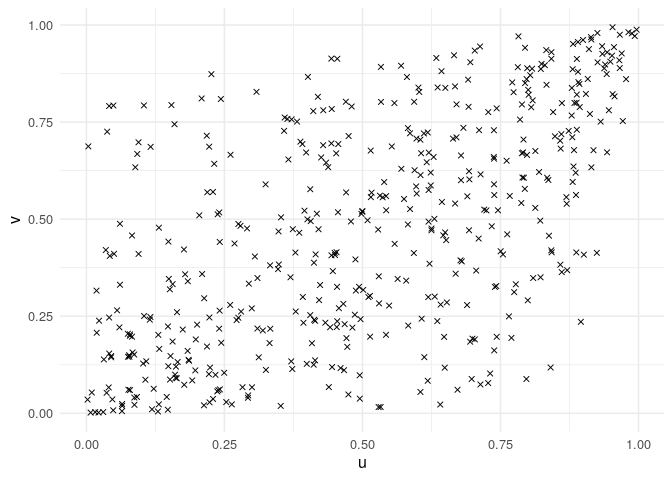
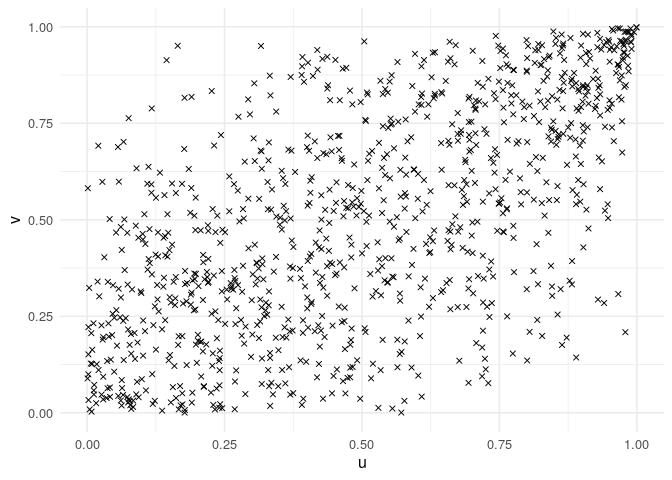
updating readme with example usecases

diff --git a/README.md b/README.md
@@ -6,7 +6,8 @@
 <!-- badges: start -->
 <!-- badges: end -->
 
-`hrd` is a collection of functions to help implement and develop and fit Hüsler-Reiss models.
+`hrd` is a collection of functions to help implement and develop and fit
+Hüsler-Reiss models.
 
 ## Installation
 
@@ -19,39 +20,103 @@ devtools::install_github("dairer/hrd")
 
 ## Example
 
-This is a basic example which shows you how to solve a common problem:
+### Sampling bivariate Hüsler-Reiss copula
 
 ``` r
-## sample data from a bivariate Hüsler-Reiss copula
 library(hrd)
-rhr(n=10, lambda = 1)
-#>                u         v
-#>  [1,] 0.47175837 0.2948507
-#>  [2,] 0.51771378 0.5014396
-#>  [3,] 0.71541700 0.4621651
-#>  [4,] 0.72278432 0.5397291
-#>  [5,] 0.11767617 0.3935401
-#>  [6,] 0.77555017 0.8174187
-#>  [7,] 0.57016371 0.7556169
-#>  [8,] 0.06499856 0.3435320
-#>  [9,] 0.24603109 0.7828829
-#> [10,] 0.08167499 0.2832719
+library(ggplot2)
+
+# sample data from a bivariate Hüsler-Reiss copula
+data = rhr(n=1000, lambda = 1.5)
+
+# visualise samples
+data %>%
+  as.data.frame() %>%
+  ggplot()+
+  geom_point(aes(u,v), shape = 4)+
+  theme_minimal(12)
 ```
 
-What is special about using `README.Rmd` instead of just `README.md`?
-You can include R chunks like so:
+![](README_files/figure-gfm/example1-1.png)<!-- -->
+
+### Esimating the dependence parameter of a Hüsler-Reiss copula
 
 ``` r
-# summary(cars)
+fit_hrc(u = data[,1], v = data[,2], initial_est = 1)
 ```
 
-You’ll still need to render `README.Rmd` regularly, to keep `README.md`
-up-to-date. `devtools::build_readme()` is handy for this. You could also
-use GitHub Actions to re-render `README.Rmd` every time you push. An
-example workflow can be found here:
-<https://github.com/r-lib/actions/tree/v1/examples>.
+    ## $estimate
+    ## [1] 1.520557
+    ## 
+    ## $ci
+    ## [1] 1.426394 1.614720
 
-You can also embed plots, for example:
+### Esimating generalised pareto marings and dependence parameter of a Hüsler-Reiss copula jointly
 
-In that case, don’t forget to commit and push the resulting figure
-files, so they display on GitHub and CRAN.
+``` r
+# transform margins to be GP distributed
+x = qgp(data[,1], scale = 2, shape = -0.1)
+y = qgp(data[,2], scale = 1.3, shape = -0.1)
+
+# visualise the multivariate distribution
+data.frame(x,y) %>%
+  ggplot()+
+  geom_point(aes(x,y), shape = 4)+
+  theme_minimal()
+```
+
+![](README_files/figure-gfm/example3-1.png)<!-- -->
+
+``` r
+model_fit = fit_hrc_gp(x,y,initial_est = c(1,0,1,0,1))
+
+# visualise estimates
+data.frame(actual = c(2, -0.1, 1.3, -0.1, 1.5),
+       estimates = model_fit$estimate,
+       lower = model_fit$ci[,1],
+       upper = model_fit$ci[,2],
+       params = c('σ1', 'ξ1', 'σ2', 'ξ2', 'λ')) %>%
+  ggplot()+
+  geom_point(aes(params, estimates))+
+  geom_point(aes(params, actual),position = position_nudge(x = -0.075), shape = 4, col = 'red')+
+  geom_segment(aes(x = params, xend = params, y = lower, yend = upper))+
+  labs(x = "Parameters",
+       y = "Parameter estimates")+
+  theme_minimal(12)
+```
+
+![](README_files/figure-gfm/example3-2.png)<!-- -->
+
+In each case the red ‘x’ is the true value. The black point along with
+the segment are the point estimates and 95% confidence intervals. λ is
+the dependence parameter of the Hüsler-Reiss copula. σ1 and ξ1 are the
+scale and shape parameters of GPD margin 1. Equivalent for margin 2.
+
+### We can compare estimates from margin-dependence indpendent analysis (in magenta) to joint modelling (in black).
+
+``` r
+dependence_mod = fit_hrc(data[,1], data[,2], initial_est = 1)
+
+marg1_mod = fit_gpd(x, initial_est = c(1,0))
+marg2_mod = fit_gpd(y, initial_est = c(1,0))
+
+data.frame(actual = c(2, -0.1, 1.3, -0.1, 1.5),
+       estimates_joint = model_fit$estimate,
+       lower_joint = model_fit$ci[,1],
+       upper_joint = model_fit$ci[,2],
+       estimates_indep = c(marg1_mod$estimate, marg2_mod$estimate, dependence_mod$estimate),
+       lower_indep = c(marg1_mod$ci[,1],marg2_mod$ci[,1],dependence_mod$ci[1]),
+       upper_indep = c(marg1_mod$ci[,2],marg2_mod$ci[,2],dependence_mod$ci[2]),
+       params = c('σ1', 'ξ1', 'σ2', 'ξ2', 'λ')) %>%
+  ggplot()+
+  geom_point(aes(params, actual),position = position_nudge(x = -0.075), shape = 4, col = 'red')+
+  geom_point(aes(params, estimates_joint))+
+  geom_segment(aes(x = params, xend = params, y = lower_joint, yend = upper_joint))+
+  geom_point(aes(params, estimates_indep),position = position_nudge(x = 0.075), col = "magenta")+
+  geom_segment(aes(x = params, xend = params, y = lower_indep, yend = upper_indep),position = position_nudge(x = 0.075), col = "magenta")+
+  labs(x = "Parameters",
+       y = "Parameter estimates")+
+  theme_minimal(12)
+```
+
+![](README_files/figure-gfm/example4-1.png)<!-- -->
